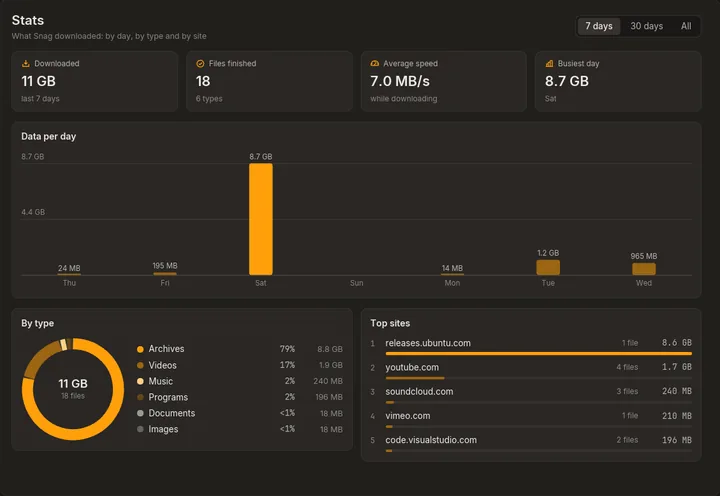
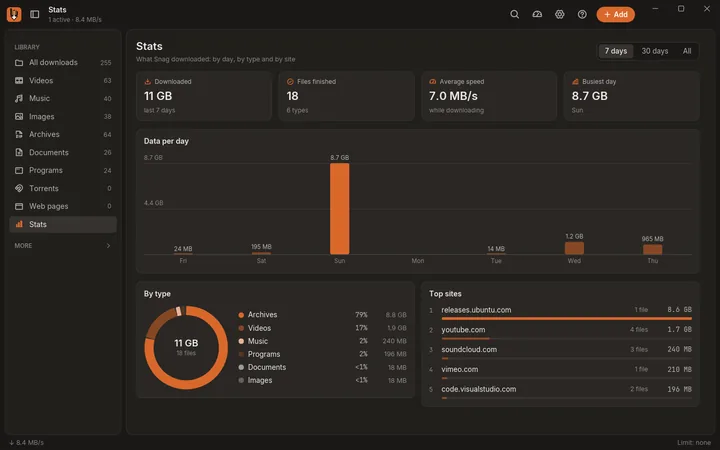
site: the copper stats and first-run screenshots, each as the whole window
Fig. 4 and Fig. 5 now show the full 1382x864 windows (copper, new logo) in the
same 16:10 frame as the other plates; the privacy part gives Fig. 5 more room.

diff --git a/site/src/components/privacy-section.tsx b/site/src/components/privacy-section.tsx
@@ -160,13 +160,13 @@ export function PrivacySection() {
           </div>
         </div>
 
-        <div className="mt-20 grid items-center gap-x-14 gap-y-8 md:grid-cols-[minmax(0,26rem)_1fr]" data-reveal>
-          <Plate window fig={5} caption="the first-run tour’s last card.">
+        <div className="mt-20 grid items-center gap-x-14 gap-y-8 md:grid-cols-[minmax(0,1.6fr)_minmax(0,1fr)]" data-reveal>
+          <Plate window fig={5} caption="the first-run tour’s last card, the first time Snag opens.">
             <Shot
               name="permissions"
-              widths={[580]}
-              height={656}
-              sizes="(min-width: 768px) 416px, calc(100vw - 44px)"
+              widths={[720, 1382]}
+              height={864}
+              sizes="(min-width: 1152px) 660px, (min-width: 768px) 58vw, calc(100vw - 32px)"
               alt="Snag’s first-run tour: switches for copied links, notifications and phone sharing, and what Snag does with cookies, the internet and the safety check"
             />
           </Plate>

diff --git a/site/src/components/features.tsx b/site/src/components/features.tsx
@@ -251,8 +251,8 @@ const tools: Entry[] = [
       <Plate window fig={4} caption="the stats page, over the last seven days.">
         <Shot
           name="stats"
-          widths={[720, 1129]}
-          height={778}
+          widths={[720, 1382]}
+          height={864}
           sizes="(min-width: 1024px) 560px, 100vw"
           alt="Snag’s stats page: data per day, a breakdown by type and the top sites"
         />
